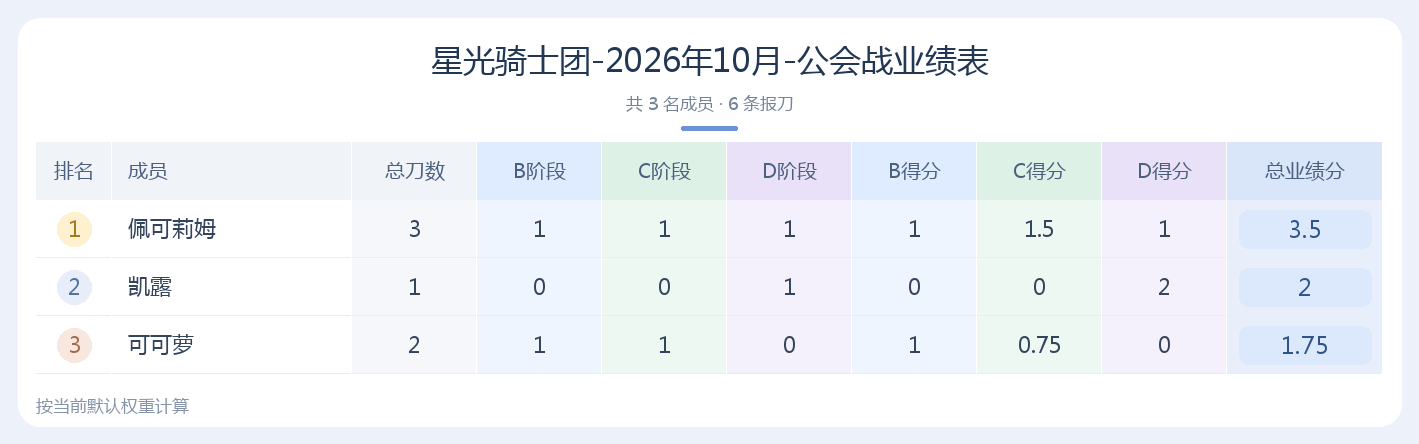
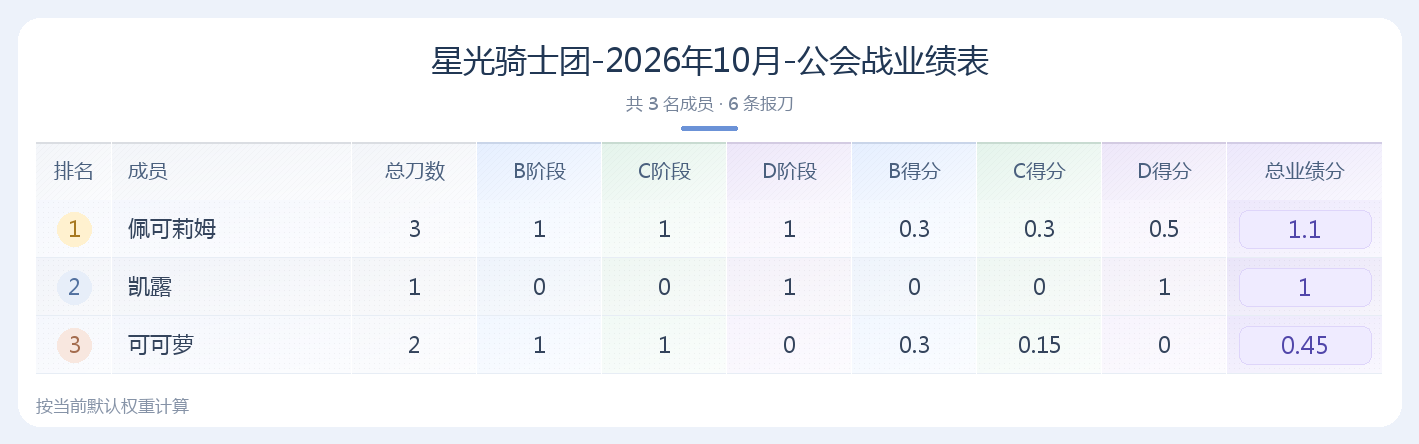
style: synchronize group performance image textures with web

diff --git a/src/client/ybplugins/clan_battle/components/score.py b/src/client/ybplugins/clan_battle/components/score.py
@@ -3,7 +3,7 @@ import base64
 from datetime import datetime, timezone
 from io import BytesIO
 
-from PIL import Image, ImageDraw, ImageFont
+from PIL import Image, ImageDraw, ImageFont, ImageColor
 
 from ..exception import GroupNotExist, InputError
 from ..util import pcr_datetime
@@ -79,12 +79,48 @@ def render_performance_image(title, data):
                            radius=2, fill='#6b92d7')
     header_colors = {'#eef5ff': '#dfebff', '#eef8f3': '#def1e7',
                      '#f5f1fc': '#e9e1f8', '#e8effb': '#d9e5f8'}
+    surfaces = {}
+
+    def surface(width, color, header, alternate):
+        key = (width, color, header, alternate)
+        if key in surfaces:
+            return surfaces[key]
+        start = ImageColor.getrgb(color)
+        tile = Image.new('RGB', (width, row_height))
+        pixels = tile.load()
+        for ty in range(row_height):
+            for tx in range(width):
+                fade = .2 + .55 * (tx / width * .45 + ty / row_height * .55)
+                shade = 3 if alternate else 0
+                pixels[tx, ty] = tuple(max(0, round(value + (255 - value) * fade) - shade) for value in start)
+        ink = ImageDraw.Draw(tile)
+        if header:
+            for diagonal in range(-row_height, width, 6):
+                # Draw on a tile so texture cannot spill into neighboring cells.
+                for ty in range(row_height):
+                    tx = diagonal + row_height - ty
+                    if 0 <= tx < width:
+                        value = pixels[tx, ty]
+                        pixels[tx, ty] = tuple(max(0, channel - 5) for channel in value)
+            ink.line((0, 0, width, 0), fill=tuple(max(0, value - 22) for value in start), width=2)
+        else:
+            for ty in range(2, row_height, 5):
+                for tx in range(2, width, 5):
+                    value = pixels[tx, ty]
+                    pixels[tx, ty] = tuple(max(0, channel - 11) for channel in value)
+        surfaces[key] = tile
+        return tile
+
     visible_rows = rows or [['—', '暂无出刀成员'] + ['—'] * (len(headers) - 2)]
     for row_index, cells in enumerate([headers] + visible_rows):
         x, y = padding, table_top + row_index * row_height
         for column, (cell, width, color) in enumerate(zip(cells, widths, colors)):
             background = header_colors.get(color, '#f0f3f8') if row_index == 0 else color
-            draw.rectangle((x, y, x + width - 1, y + row_height - 1), fill=background)
+            if column == len(headers) - 1:
+                background = '#e8e2fb'
+            elif row_index and column < 2:
+                background = '#f2f5fc'
+            image.paste(surface(width, background, row_index == 0, row_index > 0 and row_index % 2 == 0), (x, y))
             selected_font = header_font if row_index == 0 else font
             text_color = '#4a607e' if row_index == 0 else '#34445c'
             if row_index and column == 0 and rows:
@@ -93,9 +129,9 @@ def render_performance_image(title, data):
                 center_x, center_y = x + width // 2, y + row_height // 2
                 draw.ellipse((center_x - 17, center_y - 17, center_x + 17, center_y + 17), fill=badge)
             if row_index and column == len(headers) - 1:
-                selected_font, text_color = score_font, '#2d548c'
+                selected_font, text_color = score_font, '#5146aa'
                 draw.rounded_rectangle((x + 12, y + 10, x + width - 12, y + row_height - 10),
-                                       radius=9, fill='#dce8fb')
+                                       radius=9, fill='#efebff', outline='#ded5fa')
             if column == 1:
                 text = fit(cell, selected_font, width - 28)
                 box = draw.textbbox((0, 0), text, font=selected_font)
